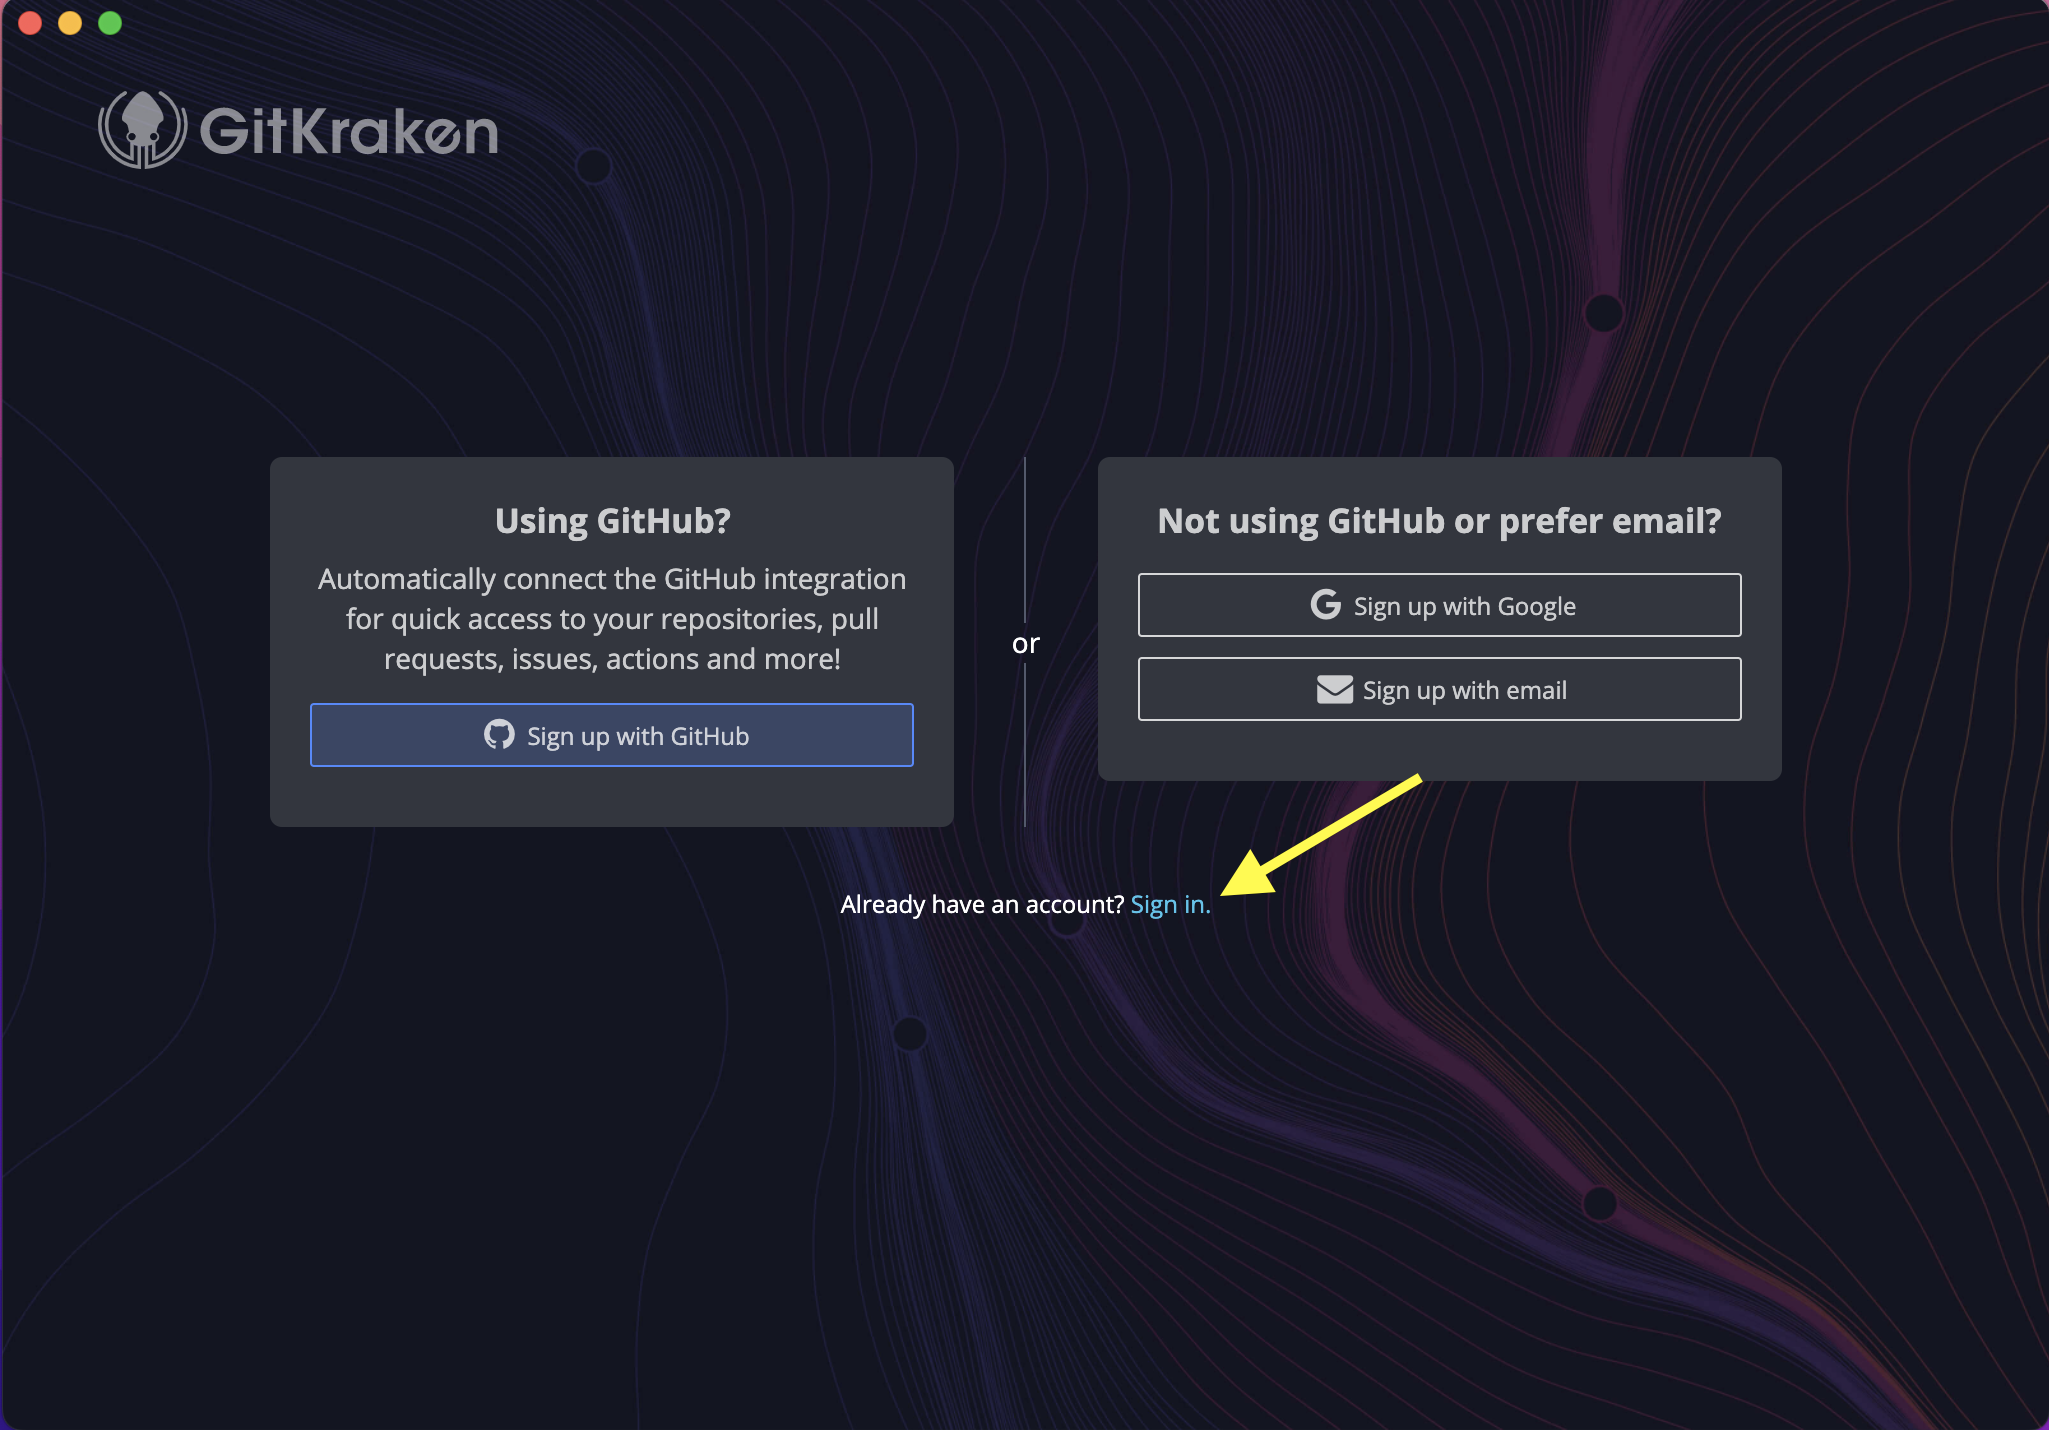
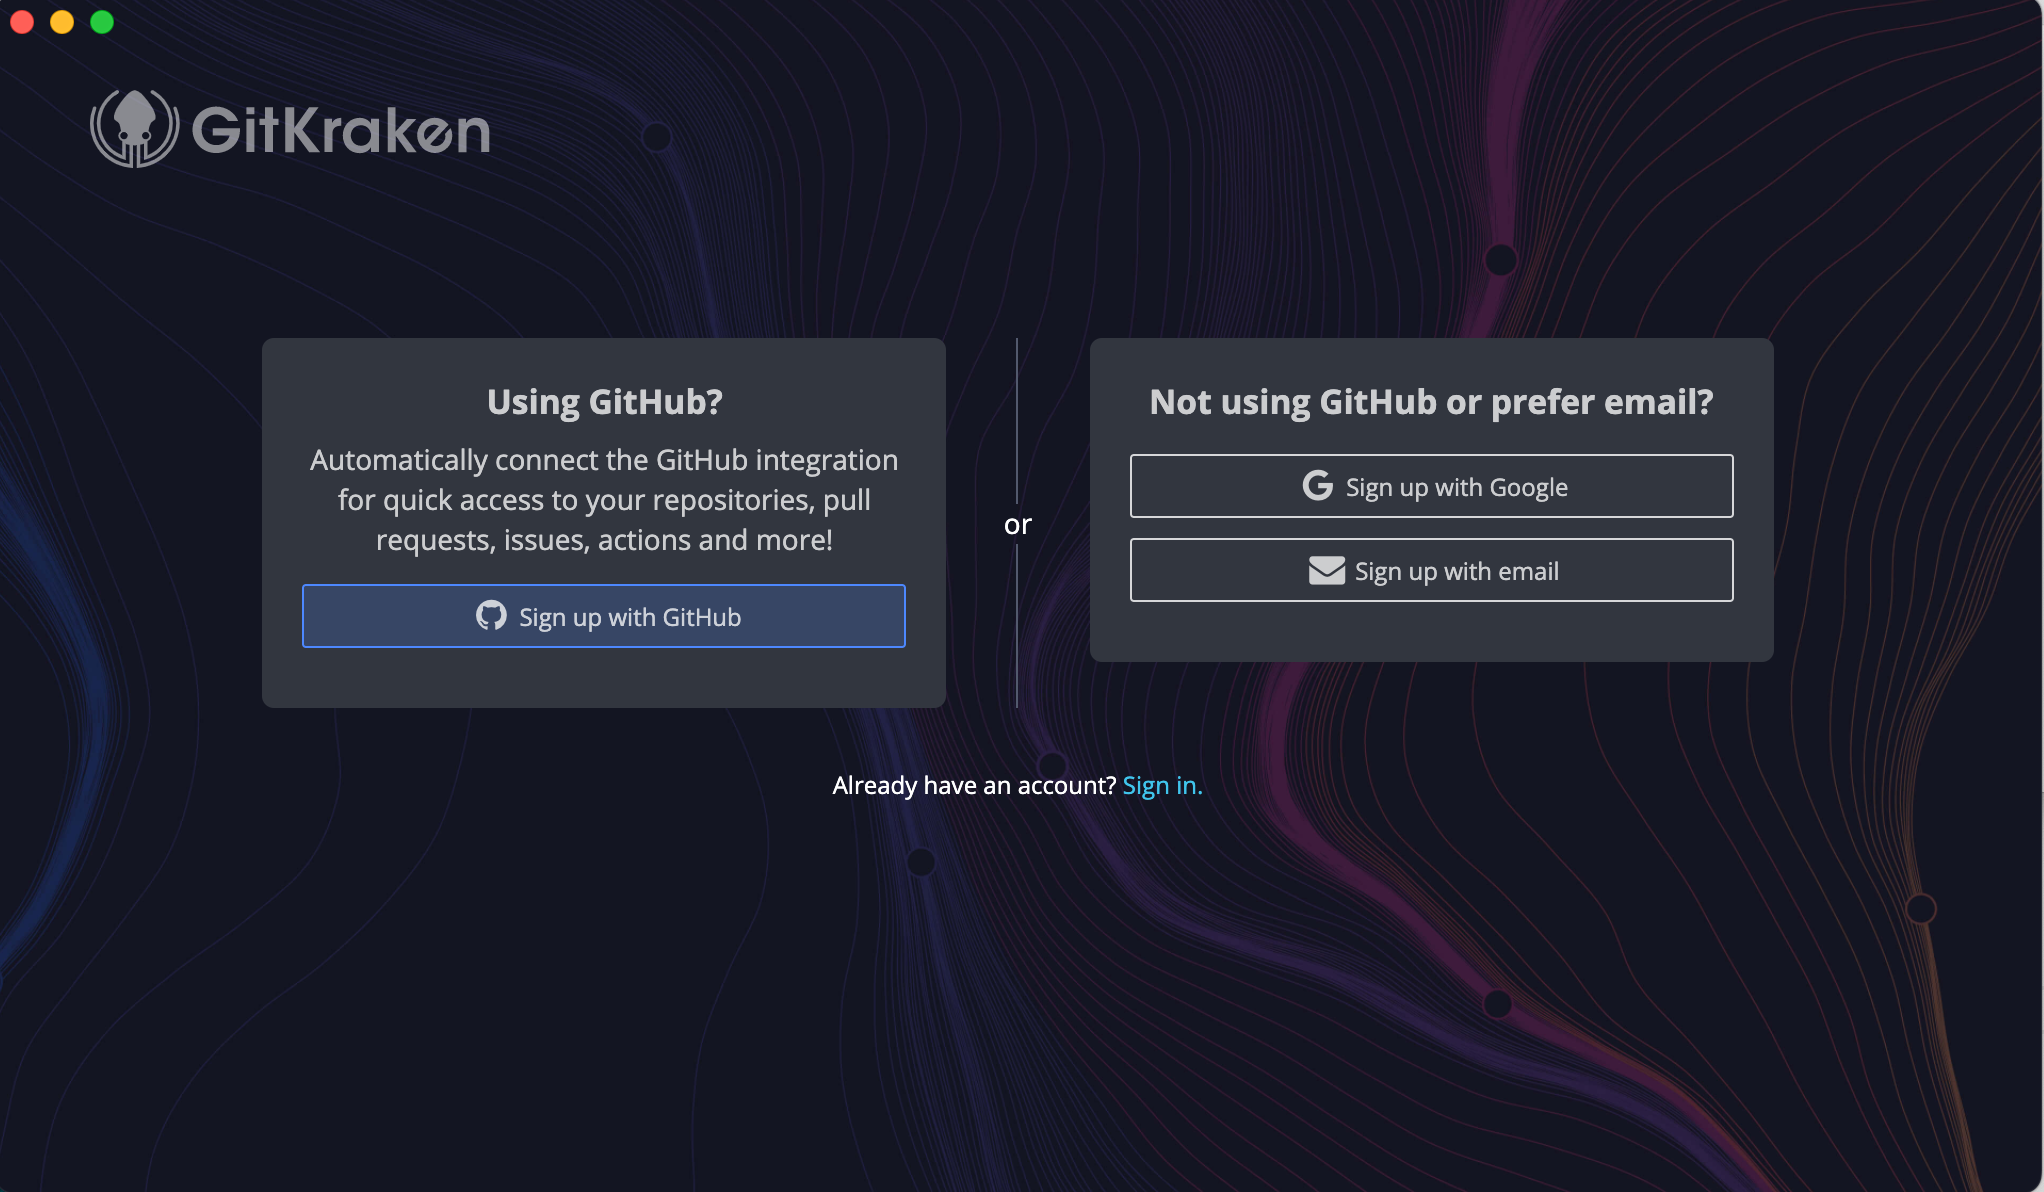
Updated signin screenshot and incorporated eula/trial screenshots

diff --git a/docs/setup_instructions/setup_git.md b/docs/setup_instructions/setup_git.md
@@ -130,9 +130,9 @@ When GitKraken opens, it will first prompt you to sign _up_ for GitKraken.
 GitKraken's parent company Axosoft has its own account system to manage use of the advanced features of its software.
 Luckily, it is easy enough to use your GitHub account to login, which will save you from having to remember a separate login, so we recommend that option.
 
-Click the link to "Sign up with GitHub"
+Click the link to "Sign up with GitHub:"
 
-<img src="screenshots/github/gitkraken_signin.png" alt="Sign in with GitHub for GitKraken" width="500">
+<img src="screenshots/github/gitkraken_signup.png" alt="GitKraken Sign up with GitHub" width="500">
 
 Your browser will then open for you to proceed with the authorization process that will link your GitHub account to your GitKraken application.
 Click "Continue Authorization" on this website.
@@ -158,6 +158,14 @@ Finally, you will be redirected to a website confirming that you successfully li
 When you return to GitKraken, you may be prompted to activate a free trial of GitKraken and to agree to the license. 
 We will only be using the free features of GitKraken during the workshop, so don't worry about when the trial will expire. 
 (The paid version adds a number of advanced features, the most useful of which is probably the ability to interact with private repositories on GitHub.)
+
+<img src="screenshots/github/gitkraken_free_trial.png" alt="GitKraken Free Trial Notice" width="500">
+
+
+<img src="screenshots/github/gitkraken_eula.png" alt="GitKraken End User License Agreement" width="500">
+
+
+
 
 After agreeing to the GitKraken license, you will be prompted to set up your profile.
 Choose your favorite avatar, and add information as follows:
